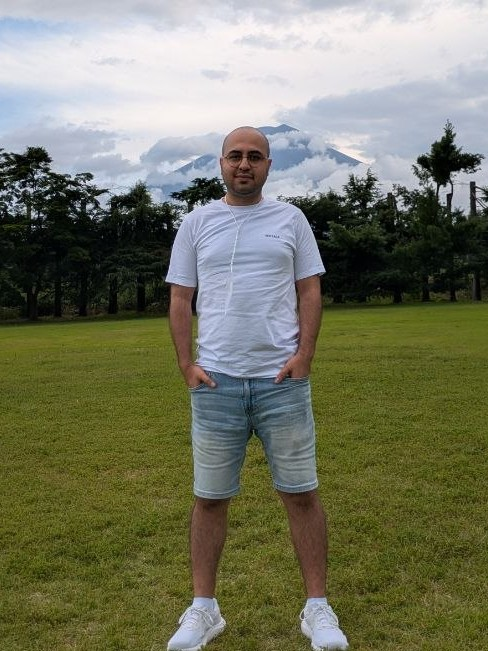
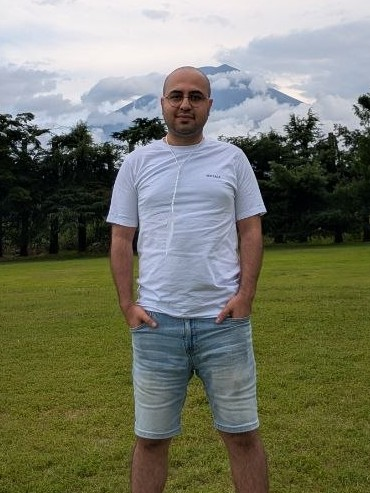
Review pass: thesis title and link, talk dates, event and abstract links, CV links, photo, figure sizes

diff --git a/_pages/about.md b/_pages/about.md
@@ -90,7 +90,7 @@ I am a theoretical physicist and a postdoctoral researcher in the [particle phys
 
 My research is driven by a simple question: **where should we look for the first clues of physics beyond the Standard Model?** I explore this question across particle physics, cosmology and astrophysics, focusing on phenomena that may open windows onto new fundamental physics. From dark matter and neutrinos to gravitational waves and astrophysical observations, I study how signals, anomalies and precision measurements can reveal departures from the Standard Model and guide us toward the underlying theory.
 
-Before coming to Osaka, I did my [PhD at the University of Pisa](https://phd2.df.unipi.it/en/students/profiles/?smid=2377) with Paolo Panci, with a thesis on _Signals from the Dark Sector_. Before that, I studied gravitation and cosmology at the University of Tehran. I am currently the PI of a JSPS Grant-in-Aid for Research Activity Start-up on in-medium gauge responses of anomaly-free ALP dark matter.
+Before coming to Osaka, I did my [PhD at the University of Pisa](https://phd2.df.unipi.it/en/students/profiles/?smid=2377) with Paolo Panci, with a thesis on [_Signals from the Dark Sector: A Phenomenological Study of ALPs, Ultralight Fields, and Minimal Dark Matter_](https://etd.adm.unipi.it/t/etd-09172025-131512/). Before that, I studied gravitation and cosmology at the University of Tehran. I am currently the PI of a JSPS Grant-in-Aid for Research Activity Start-up on in-medium gauge responses of anomaly-free ALP dark matter.
 
 **Research interests:** dark matter · axions and ALPs · BSM phenomenology · indirect detection · cosmology · astroparticle theory.
 

diff --git a/_posts/2026-09-15-neutron-disappearance-lz.md b/_posts/2026-09-15-neutron-disappearance-lz.md
@@ -16,7 +16,9 @@ I remembered a paper I had read some time ago pointing out that bound neutrons i
 
 On Saturday night I emailed Alessandro Strumia with the idea and my calculations. We started exchanging calculations and drafts, and by Monday evening we had most of a paper. 🙂
 
-{% include figure.liquid loading="eager" path="assets/img/publication_preview/lz_event.png" class="img-fluid rounded z-depth-1" zoomable=true caption="A single nuclear recoil in a xenon detector, and a neutron that disappears." %}
+<div style="max-width: 520px; margin: 1.5rem auto;">
+{% include figure.liquid loading="eager" path="assets/img/publication_preview/lz_event.png" class="img-fluid rounded z-depth-1" zoomable=true caption="A bound neutron disappears inside a xenon nucleus; the daughter nucleus recoils and produces a scintillation signal." %}
+</div>
 
 I'm very happy to share the result:
 

diff --git a/_news/2025-09-phd.md b/_news/2025-09-phd.md
@@ -5,4 +5,4 @@ inline: true
 related_posts: false
 ---
 
-<img src="/assets/img/news/phd.png" alt="" style="width: 64px; height: 64px; object-fit: cover; border-radius: 8px; float: left; margin: 0 12px 4px 0">I defended my PhD at the University of Pisa (thesis: _Signals from the Dark Sector_) and joined the University of Osaka as a postdoctoral researcher in Ryosuke Sato's group.
+<img src="/assets/img/news/phd.png" alt="" style="width: 64px; height: 64px; object-fit: cover; border-radius: 8px; float: left; margin: 0 12px 4px 0">I defended my PhD at the University of Pisa (thesis: [_Signals from the Dark Sector: A Phenomenological Study of ALPs, Ultralight Fields, and Minimal Dark Matter_](https://etd.adm.unipi.it/t/etd-09172025-131512/)) and joined the University of Osaka as a postdoctoral researcher in Ryosuke Sato's group.

diff --git a/_posts/2026-11-04-uldm-self-interactions.md b/_posts/2026-11-04-uldm-self-interactions.md
@@ -10,7 +10,9 @@ thumbnail: assets/img/publication_preview/self_interaction.png
 
 Today I gave the APEC seminar at [Kavli IPMU](https://research.ipmu.jp/seminar/?seminar_id=3662) on our recent paper with S. Li, [_Self-Interaction Bounds on Ultralight Dark Matter Couplings to Matter_](https://arxiv.org/abs/2605.03477). Here is the idea in a nutshell.
 
+<div style="max-width: 520px; margin: 1.5rem auto;">
 {% include figure.liquid loading="eager" path="assets/img/publication_preview/self_interaction.png" class="img-fluid rounded z-depth-1" zoomable=true %}
+</div>
 
 Ultralight dark matter (ULDM) is a framework where particle physics, astrophysics and cosmology meet. Its couplings to Standard Model particles and its self-interactions are usually treated as two separate things, each with its own searches and bounds.
 

diff --git a/_pages/talks.md b/_pages/talks.md
@@ -48,10 +48,11 @@ nav_order: 3
 </div>
 <div class="talk-title">{{ t.title }}</div>
 <div class="talk-event">{{ t.event }} · {{ t.venue }}</div>
-{% if t.link or t.slides %}
+{% if t.link or t.slides or t.abstract_url %}
 <div class="talk-links">
 {% if t.link %}<a href="{{ t.link }}"><i class="fa-solid fa-arrow-up-right-from-square"></i> Event page</a>{% endif %}
 {% if t.slides %}<a href="{{ t.slides }}"><i class="fa-solid fa-file-pdf"></i> Slides</a>{% endif %}
+{% if t.abstract_url and t.abstract == nil %}<a href="{{ t.abstract_url }}"><i class="fa-solid fa-align-left"></i> Abstract</a>{% endif %}
 </div>
 {% endif %}
 {% if t.abstract %}

diff --git a/_pages/cv.md b/_pages/cv.md
@@ -9,3 +9,8 @@ description:
 toc:
   sidebar: left
 ---
+
+<style>
+  .card .list-group-item { list-style: none; }
+  .card ul.items { padding-left: 1.1rem; }
+</style>
